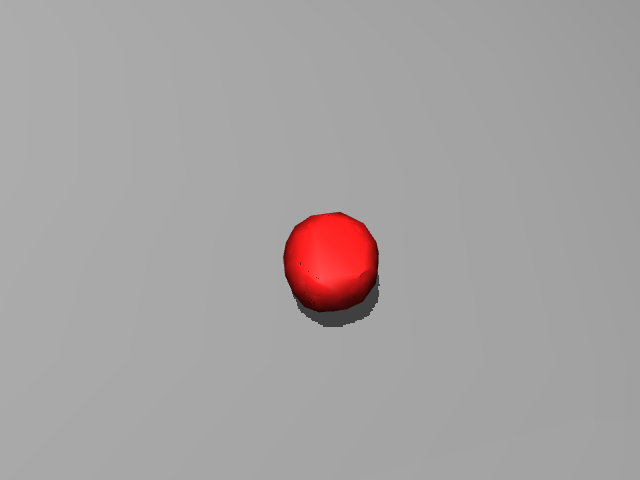
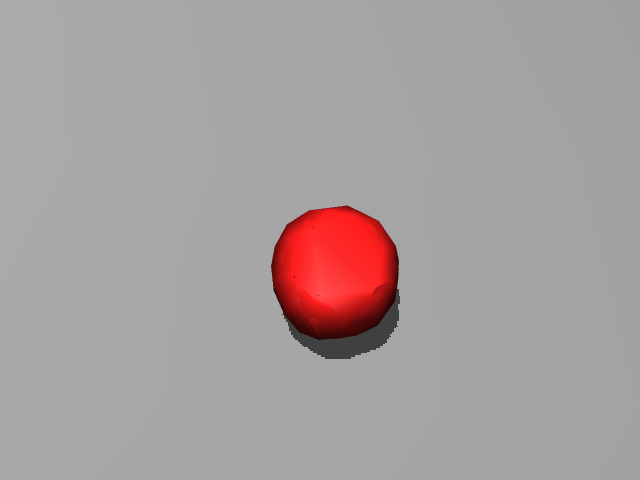
抓取比较准确，但是有apple滑动、banana掉落、bowl穿模等问题

Changed region(s): [[0.4062, 0.4062, 0.625, 0.75]]

diff --git a/custom_envs/scripts/navigation/navigate_mujoco.py b/custom_envs/scripts/navigation/navigate_mujoco.py
@@ -619,9 +619,8 @@ def main():
                                     _tried.add(_next_ci)
                                     grasp_result["tried_set"] = _tried
                                     grasp_result["t_cam"]     = grasp_result["gr_translations"][_next_ci]
-                                    _R_cam_next = grasp_result["gr_rotations"][_next_ci].copy()
-                                    _R_cam_next[:, 0] *= -1   # GraspNet approach在+Z光轴系下，转为相机系需取反
-                                    grasp_result["R_cam"]     = _R_cam_next
+                                    # GraspNet 原始输出即光学系（x右 y下 z前），直接使用
+                                    grasp_result["R_cam"]     = grasp_result["gr_rotations"][_next_ci].copy()
                                     grasp_result["score"]     = float(grasp_result["gr_scores"][_next_ci])
                                     grasp_result["width"]     = float(grasp_result["gr_widths"][_next_ci])
                                     # 重新计算 R_desired_EE_in_arm（对齐原版逻辑）
@@ -1207,8 +1206,8 @@ def main():
                         _T_gb_tc     = _fk_gb_tc(_q_scan_at_scan.astype(np.float64))
                         _R_c2w_tc    = _R_rob_tc @ _T_gb_tc[:3, :3] @ _cor_tc
                         _t_cam_tc    = _R_rob_tc @ (_T_gb_tc[:3, :3] @ _cop_tc + _T_gb_tc[:3, 3]) + _arm_base_tc
+                        # 点云是光学系（x右 y下 z前），_R_c2w_tc 已是光学系->世界，无需翻转
                         _pts_table_cam_c = _pts_table_cam.astype(np.float64).copy()
-                        _pts_table_cam_c[:, 2] *= -1
                         _pts_table_world = (_pts_table_cam_c @ _R_c2w_tc.T) + _t_cam_tc
                         np.savez('/tmp/table_cloud.npz', points=_pts_table_world.astype(np.float32))
                         print(f'[SM] 桌面点云已保存 /tmp/table_cloud.npz（{len(_pts_table_world)} pts）', flush=True)
@@ -1345,7 +1344,7 @@ def main():
                                     except Exception:
                                         _ik_ok_pre = False
                                     _R_cam_ci      = _gr["rotations"][_ci]
-                                    _app_world_ci  = _R_cam2world @ (-_R_cam_ci[:, 0])
+                                    _app_world_ci  = _R_cam2world @ _R_cam_ci[:, 0]
                                     _approach_z_ci = float(_app_world_ci[2])
                                     _ranked_pre.append((
                                         _ik_ok_pre,
@@ -1378,8 +1377,8 @@ def main():
                             except Exception:
                                 _R_des_best = None
                             print(f"[DIAG] best grasp R_cam approach(col0)={np.round(_gr['rotations'][_best_gi][:,0],4)}", flush=True)
+                            # GraspNet 原始输出即光学系（x右 y下 z前），直接使用
                             _R_cam_best = _gr["rotations"][_best_gi].copy()
-                            _R_cam_best[:, 0] *= -1   # GraspNet approach在+Z光轴系下，转为相机系需取反
                             grasp_result = {
                                 "t_cam":   _gr["translations"][_best_gi],
                                 "R_cam":   _R_cam_best,
